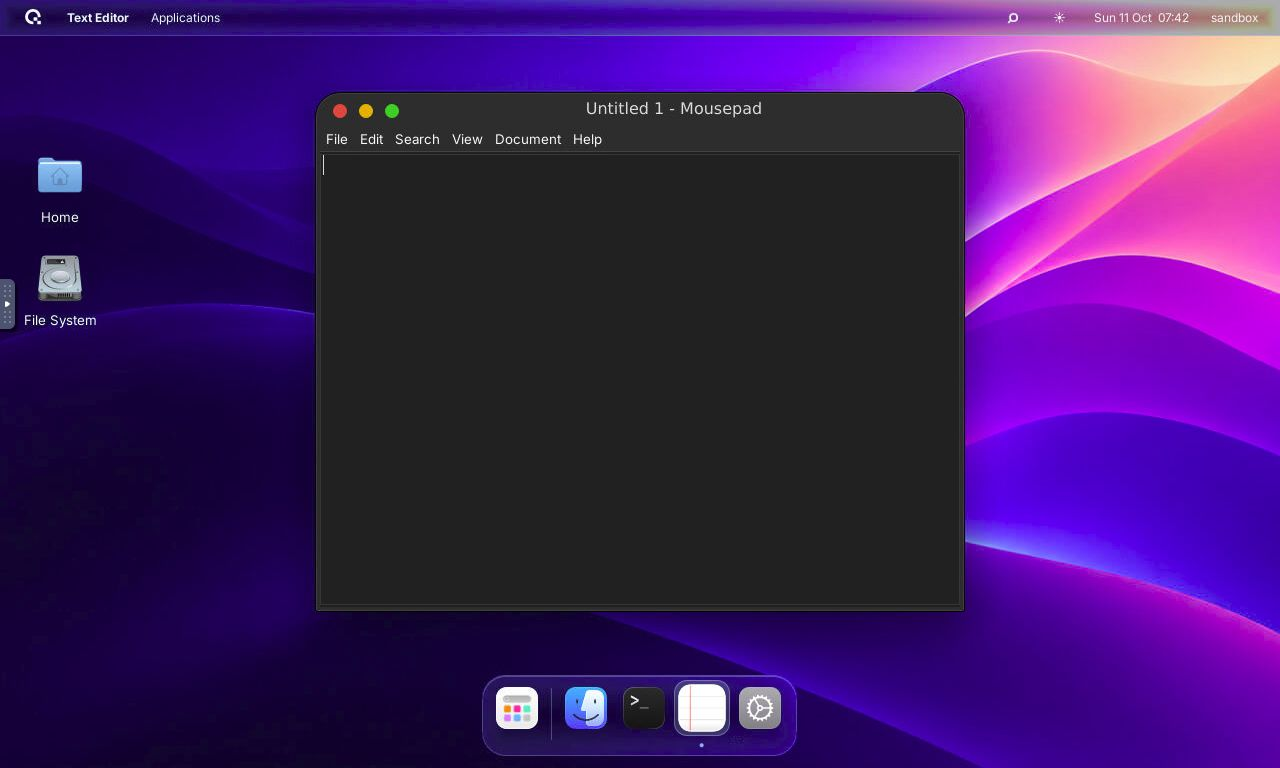
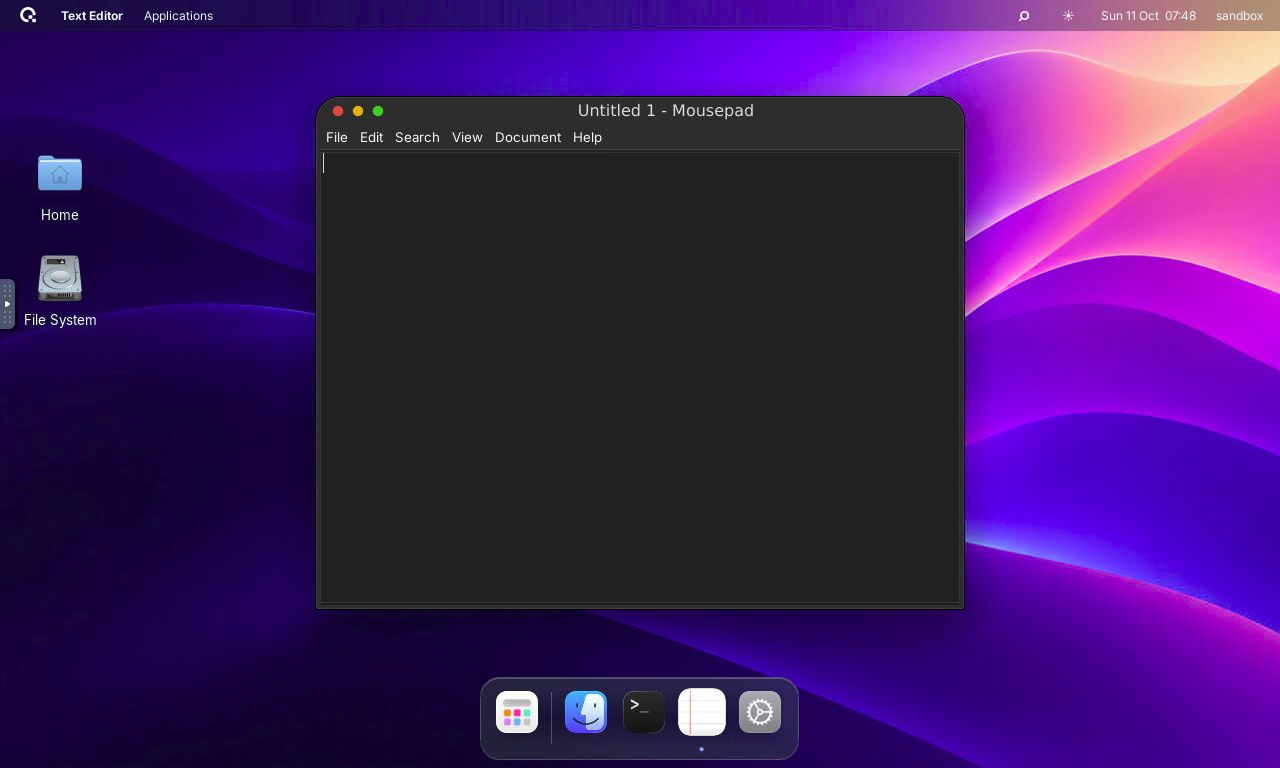
Refine desktop proportions against macOS 27 visual references

diff --git a/shell.css b/shell.css
@@ -3,8 +3,8 @@ window#shell-surface { background-color: transparent; }
 .menu-bar {
   background: linear-gradient(to bottom, rgba(58, 60, 79, 0.55), rgba(20, 22, 36, 0.46));
   color: #f5f6fb;
-  border-bottom: 1px solid rgba(255, 255, 255, 0.16);
-  padding: 0 12px;
+  border-bottom: none;
+  padding: 0 8px;
   font-family: "Inter", "DejaVu Sans", sans-serif;
   font-size: 12px;
 }
@@ -15,7 +15,7 @@ window#shell-surface { background-color: transparent; }
   border: none;
   border-radius: 5px;
   color: #f5f6fb;
-  padding: 3px 9px;
+  padding: 1px 8px;
   min-height: 24px;
   transition: background-color 180ms ease;
 }
@@ -26,9 +26,9 @@ window#shell-surface { background-color: transparent; }
 .search-button { font-size: 22px; }
 .dock {
   margin: 0;
-  padding: 4px 6px 2px;
+  padding: 6px 8px 2px;
   border: 1px solid rgba(255, 255, 255, 0.22);
-  border-radius: 24px;
+  border-radius: 20px;
   background: linear-gradient(to bottom, rgba(142, 151, 187, 0.34), rgba(31, 33, 52, 0.34));
   box-shadow: inset 0 1px rgba(255, 255, 255, 0.24);
 }
@@ -42,29 +42,29 @@ window#shell-surface { background-color: transparent; }
   box-shadow: none;
   transition: background-color 180ms ease, border-color 180ms ease;
 }
-.dock-button:hover { background: rgba(255, 255, 255, 0.17); border-color: rgba(255, 255, 255, 0.3); }
+.dock-button:hover { background: transparent; border-color: transparent; }
 .dock-button:active { background: rgba(70, 100, 170, 0.18); }
 .running-dot { min-height: 9px; font-size: 13px; color: #d6dae7; }
 .active-dock-item .running-dot { color: #8fbdff; }
 .dock-separator { background: rgba(255, 255, 255, 0.27); margin: 8px 0 13px; }
 window#launcher-window, window#panel-window { background: transparent; color: #f5f6fb; }
 .launcher-search {
-  padding: 7px 12px;
-  border-radius: 30px;
+  padding: 10px 18px;
+  border-radius: 38px;
   border: 1px solid rgba(255,255,255,0.22);
   background: linear-gradient(to bottom, rgba(14,16,24,0.74), rgba(21,24,40,0.54));
 }
 .launcher-search entry {
-  min-height: 38px;
+  min-height: 52px;
   padding: 0 8px;
-  font-size: 17px;
+  font-size: 24px;
   background: transparent;
   border: none;
   box-shadow: none;
   color: #f5f6fb;
   caret-color: #dbeaff;
 }
-.search-placeholder { color: #c6cddd; font-size: 17px; }
+.search-placeholder { color: #c6cddd; font-size: 24px; }
 .launcher-search entry image { color: #d3d9e5; }
 .launcher-close {
   min-width: 36px; min-height: 36px; padding: 0;
@@ -73,7 +73,7 @@ window#launcher-window, window#panel-window { background: transparent; color: #f
 }
 .launcher-close:hover { background: rgba(255,255,255,0.17); }
 .app-grid-card {
-  padding: 14px 16px 10px;
+  padding: 18px 22px 14px;
   border-radius: 24px;
   border: 1px solid rgba(255,255,255,0.22);
   background: linear-gradient(to bottom, rgba(35,38,53,0.65), rgba(21,24,39,0.60));
@@ -87,28 +87,28 @@ window#launcher-window, window#panel-window { background: transparent; color: #f
 .category-tab:checked { background: rgba(130,149,218,0.30); color: #fff; }
 .app-grid-card flowbox { background: transparent; }
 .app-tile {
-  min-width: 76px; min-height: 82px; padding: 6px;
+  min-width: 112px; min-height: 98px; padding: 6px;
   border: 1px solid transparent; border-radius: 14px;
   background: transparent; color: #f5f6fb;
 }
 .app-tile:hover { background: rgba(255,255,255,0.10); }
 .app-tile:selected { background: rgba(145,166,221,0.14); border-color: rgba(203,219,255,0.24); }
-.app-name { font-size: 11px; font-weight: 500; }
+.app-name { font-size: 12px; font-weight: 500; }
 .launcher-hint { font-size: 11px; color: #d3d9e5; padding-top: 2px; }
 .empty-result { padding: 18px; color: #d3d9e5; }
 .menu-card {
-  padding: 7px;
+  padding: 5px;
   border-radius: 18px;
   border: 1px solid rgba(255,255,255,0.22);
   background: linear-gradient(to bottom, rgba(35,38,53,0.78), rgba(22,25,39,0.72));
   color: #f5f6fb;
 }
 .menu-action, .menu-toggle {
-  min-height: 32px; padding: 6px 12px; border-radius: 9px;
+  min-height: 22px; padding: 2px 8px; border-radius: 5px;
   border: none; background: transparent; color: #f5f6fb;
-  box-shadow: none; font-size: 12px;
+  box-shadow: none; font-size: 13px;
 }
-.menu-action:hover, .menu-toggle:hover { background: rgba(146,166,220,0.24); }
+.menu-action:hover, .menu-toggle:hover { background: #2864dc; color: #fff; }
 .menu-toggle check { margin-right: 10px; background: #3c465c; border: 1px solid #929eb7; }
 .menu-toggle check:checked { background: #416fae; color: #fff; }
 .menu-card separator { background: rgba(255,255,255,0.13); min-height: 1px; }
@@ -135,7 +135,7 @@ window#launcher-window.light, window#panel-window.light { color: #252735; }
 .light .menu-card calendar { color: #252735; }
 .light .launcher-close, .light .category-tab { background: rgba(40,50,80,0.08); color: #3c4354; }
 .light .category-tab:checked { background: rgba(69,98,160,0.20); color: #173663; }
-.light .app-tile:selected, .light .menu-action:hover { background: rgba(69,98,160,0.14); }
+.light .app-tile:selected { background: rgba(69,98,160,0.14); }
 .light .menu-toggle check { background: #e3e8f2; border-color: #64718c; }
 .light .menu-toggle check:checked { background: #315d9d; color: #fff; }
 .light .search-placeholder { color: #596172; }
@@ -144,10 +144,11 @@ window#launcher-window.light, window#panel-window.light { color: #252735; }
 
 /* KWin Glass samples and refracts the actual composited desktop. Keep GTK's
    material layer thin so the optical effect remains visible underneath. */
-.kwin .dock { background: rgba(17,21,33,0.16); }
-.kwin .menu-bar { background: rgba(17,21,33,0.32); }
-.kwin .launcher-search { background: rgba(20,21,25,0.62); }
-.kwin .app-grid-card, .kwin .menu-card { background: rgba(24,25,29,0.60); }
+.kwin .dock { background: rgba(36,36,38,0.28); }
+.kwin .menu-bar { background: rgba(28,28,30,0.28); }
+.kwin .launcher-search { background: linear-gradient(to bottom, rgba(36,36,38,0.78), rgba(5,5,7,0.94)); }
+.kwin .app-grid-card { background: rgba(32,32,34,0.78); }
+.kwin .menu-card { background: rgba(38,38,40,0.86); }
 .kwin.light .dock { background: rgba(242,246,255,0.18); }
 .kwin.light .menu-bar { background: rgba(242,246,255,0.46); }
 .kwin.light .launcher-search, .kwin.light .app-grid-card, .kwin.light .menu-card {

diff --git a/docs/visual-comparison.html b/docs/visual-comparison.html
@@ -1,0 +1,11 @@
+<!doctype html>
+<html lang="en"><meta charset="utf-8"><meta name="viewport" content="width=device-width,initial-scale=1"><title>vAntah / macOS 27 visual comparison</title>
+<style>
+body{margin:0;padding:32px;background:#151517;color:#eee;font:16px system-ui,sans-serif}main{max-width:1400px;margin:auto}h1{font-size:28px}h2{font-size:20px;margin:32px 0 12px}p{max-width:85ch;line-height:1.6;color:#c8c8cd}a{color:#a8c9ff}a:focus-visible{outline:2px solid #aac8ff;outline-offset:4px}.pair{display:grid;grid-template-columns:1fr 1fr;gap:16px}figure{margin:0;background:#252527;border-radius:16px;overflow:hidden}img{display:block;width:100%;aspect-ratio:1.67;object-fit:contain;background:#101012}figcaption{padding:16px;line-height:1.5}small{display:block;color:#bbb;margin-top:6px}table{width:100%;border-collapse:collapse}th,td{padding:12px;border-bottom:1px solid #444;text-align:left;line-height:1.5}summary{cursor:pointer;padding:16px}details img{aspect-ratio:auto}@media(max-width:700px){body{padding:16px}.pair{grid-template-columns:1fr}table{font-size:14px}}
+</style><main>
+<h1>vAntah alongside macOS 27</h1><p>Official Apple screenshots on the left; the running Linux implementation on the right. Apple artwork loads from its original URL. Comparisons use different applications and wallpaper, so this is a visual review, not a pixel-diff score or an exact-match certification.</p>
+<h2>Search and launcher</h2><div class="pair"><figure><img src="https://www.apple.com/v/os/g/images/macos/highlights/siri__mfeve50fboii_large.jpg" alt="Apple macOS 27 screenshot showing a dark Siri search capsule"><figcaption><a href="https://www.apple.com/os/macos/">Apple macOS 27 search reference</a><small>Dark capsule, prominent text, restrained outer edge.</small></figcaption></figure><figure><img src="screenshots/kwin-glass.jpg" alt="Updated vAntah application launcher and dock"><figcaption>vAntah after adjustment<small>Larger search text, darker gradient, larger icons and wrapped app names. Local app results remain a separate grid.</small></figcaption></figure></div>
+<h2>Dock and windows</h2><div class="pair"><figure><img src="https://images.apple.com/v/os/g/images/macos/siri/siri_app__bf82k75xd8z6_large.jpg" alt="Apple macOS 27 Siri app with traffic-light controls and dock"><figcaption>Apple desktop reference<small>Compact controls, rounded windows and a low translucent dock.</small></figcaption></figure><figure><img src="screenshots/window-light-matched.jpg" alt="vAntah window showing the revised traffic-light controls and dock"><figcaption>vAntah native GTK window<small>28px title strip, 12px control targets, neutral dock material and reduced rim refraction. GTK retains its application menus and client layout.</small></figcaption></figure></div>
+<h2>Menus and controls</h2><div class="pair"><figure><img src="https://developer.apple.com/design/resources/images/thumbnails/Thumbnail-UIKit-macOS27_2x.png" alt="Official macOS 27 UI kit preview with grouped controls"><figcaption><a href="https://developer.apple.com/design/resources/">Apple component-kit preview</a><small>This preview shows grouped controls, not an open menu. Exact menu measurements are unavailable from this reference.</small></figcaption></figure><figure><img src="screenshots/menu-matched.jpg" alt="vAntah compact desktop menu"><figcaption>vAntah menu<small>Compact rows, neutral glass, rounded selection and blue hover highlight.</small></figcaption></figure></div>
+<h2>Comparison findings</h2><table><thead><tr><th>Surface</th><th>Previous difference</th><th>Applied change</th></tr></thead><tbody><tr><td>Launcher</td><td>Small query, cramped truncated labels</td><td>24px query, 56px icons, two-line names, fewer columns</td></tr><tr><td>Dock</td><td>Strong colored rim and hover box</td><td>Neutral tint, 20px corners, no hover tile, 8px bottom gap</td></tr><tr><td>Menus</td><td>44px rows and purple highlight</td><td>Compact 26px minimum rows and blue selection</td></tr><tr><td>Windows</td><td>32px title strip, 16px controls, wide spacing</td><td>28px strip, 12px controls, 8px spacing</td></tr><tr><td>Glass</td><td>Bright edge and exaggerated fringing</td><td>Edge lighting off, 6px refraction edge, neutral saturation, no color fringing</td></tr></tbody></table>
+<details><summary>Previous launcher for comparison</summary><img src="screenshots/before-matching.jpg" alt="vAntah before these adjustments"></details><p>Remaining differences: Linux app layouts, client bottom corners, Inter typography, open-source icon artwork, software-rendered motion, and X11 glass optics. No equivalent Apple app/grid/menu capture at the same resolution was available to prove exact matching. See <a href="apple-design-references.md">source references</a> and <a href="appearance-testing.md">test notes</a>.</p></main></html>

diff --git a/shell.py b/shell.py
@@ -145,7 +145,7 @@ class Shell:
         if not widget.get_realized():
             return
         width, height = allocation.width, allocation.height
-        radius = min(24, height // 2)
+        radius = min(20, height // 2)
         region = cairo.Region()
         for row in range(height):
             distance = max(0, radius - row - 0.5, row - (height - radius) + 0.5)
@@ -243,7 +243,7 @@ class Shell:
             _, x, y = self.display.get_default_seat().get_pointer().get_position()
         g = self.geometry
         win.move(max(g.x + 6, min(x, g.x + g.width - w - 6)),
-                 max(g.y + 40, min(y, g.y + g.height - h - 10)))
+                 max(g.y + 34, min(y, g.y + g.height - h - 10)))
         win.present_with_time(Gtk.get_current_event_time())
 
     def panel_action(self, box, label, callback):
@@ -430,15 +430,15 @@ class Shell:
         self.apps_button.set_visible(g.width >= 600)
         self.session_button.set_visible(g.width >= 700)
         self.active_label.set_max_width_chars(24 if g.width >= 700 else 14)
-        self.bar.set_size_request(g.width, 34)
-        self.bar.resize(g.width, 34)
+        self.bar.set_size_request(g.width, 28)
+        self.bar.resize(g.width, 28)
         self.bar.move(g.x, g.y)
         width = min(self.dock_box.get_preferred_width()[1], g.width - 16)
         height = self.dock_box.get_preferred_height()[1]
         self.dock.resize(width, height)
-        self.dock.move(g.x + (g.width - width) // 2, g.y + g.height - height - 12)
-        self.reserve(self.bar, top=34)
-        self.reserve(self.dock, bottom=98)
+        self.dock.move(g.x + (g.width - width) // 2, g.y + g.height - height - 8)
+        self.reserve(self.bar, top=28)
+        self.reserve(self.dock, bottom=90)
         return False
 
     def reserve(self, window, top=0, bottom=0):
@@ -498,10 +498,10 @@ class Shell:
             self.build_launcher()
         self.entry.set_text('')
         width = min(760, self.geometry.width - 32)
-        columns = max(1, (width - 40) // 110)
+        columns = max(1, (width - 48) // 140)
         rows = math.ceil(len(self.app_infos) / columns)
-        height = min(520, self.geometry.height - 130, max(360, rows * 104 + 145))
-        self.results.set_max_children_per_line(max(1, (width - 40) // 100))
+        height = min(520, self.geometry.height - 130, max(360, rows * 116 + 156))
+        self.results.set_max_children_per_line(max(1, (width - 48) // 140))
         self.launcher.set_size_request(width, height)
         self.launcher.show_all()
         self.filter_apps()
@@ -579,7 +579,7 @@ class Shell:
         self.results.set_homogeneous(True)
         self.results.set_valign(Gtk.Align.START)
         self.results.set_min_children_per_line(1)
-        self.results.set_column_spacing(8)
+        self.results.set_column_spacing(12)
         self.results.set_row_spacing(10)
         self.results.set_activate_on_single_click(True)
         self.results.connect('child-activated', lambda _, child: self.launch(child.app))
@@ -762,10 +762,14 @@ class Shell:
             child.set_tooltip_text(app.get_display_name())
             child.get_accessible().set_name(app.get_display_name())
             content = Gtk.Box(orientation=Gtk.Orientation.VERTICAL, spacing=7)
-            content.pack_start(self.icon(app.get_id(), 'application-x-executable', 48), False, False, 0)
+            content.pack_start(self.icon(app.get_id(), 'application-x-executable', 56), False, False, 0)
             label = style(Gtk.Label(label=app.get_display_name()), 'app-name')
             label.set_ellipsize(Pango.EllipsizeMode.END)
-            label.set_max_width_chars(11)
+            label.set_max_width_chars(18)
+            label.set_line_wrap(True)
+            label.set_line_wrap_mode(Pango.WrapMode.WORD_CHAR)
+            label.set_lines(2)
+            label.set_justify(Gtk.Justification.CENTER)
             content.pack_start(label, False, False, 0)
             child.add(content)
             self.results.add(child)

diff --git a/docs/appearance-testing.md b/docs/appearance-testing.md
@@ -51,3 +51,21 @@ macOS 27 assets. Software-rendered glass and VNC updates visibly lag input.
 Rams quick_review was requested with `via: rules` in its review context (the tool
 has no separate `via` parameter). It returned an exhausted review-credit error,
 so there is no Rams score or successful automated review to report.
+
+## Reference comparison follow-up
+
+Compared the running shell against Apple's macOS 27 search capsule, Siri desktop
+window/dock, and official component-kit preview. A side-by-side HTML page links
+Apple-hosted images alongside native-resolution vAntah screenshots. The references
+use different content and scale; no numeric pixel-diff equivalence is claimed.
+
+Applied a 28px menu bar, 24px search text, larger 56px launcher icons, two-line
+application labels and fewer grid columns. Menus now use shorter rows and a blue
+selection. Dock/glass saturation is neutral, edge lighting is disabled and
+refraction is narrower. Aurorae uses a 28px title strip and smaller 12px buttons.
+
+The running shell was rebooted with these changes. Visually verified full launcher
+labels, menu spacing, live glass, and window controls. Python syntax, shell syntax
+and the five installer regressions passed. Rams again returned an exhausted-credit
+error. Exact native app layouts, bottom client corners, Apple typography/icons and
+optics remain different; these changes do not certify an exact macOS reproduction.

diff --git a/README.md b/README.md
@@ -9,6 +9,9 @@ The published v0.1.1 installer below still provides the earlier Picom demo.
 
 Running KWin Glass desktop with MacTahoe icons:
 
+[Side-by-side macOS 27 comparison](docs/visual-comparison.html) records the visual
+adjustments and remaining fidelity differences.
+
 ![KWin Glass launcher and dock](docs/screenshots/kwin-glass.jpg)
 
 Earlier v0.1.1 Docker demo:
